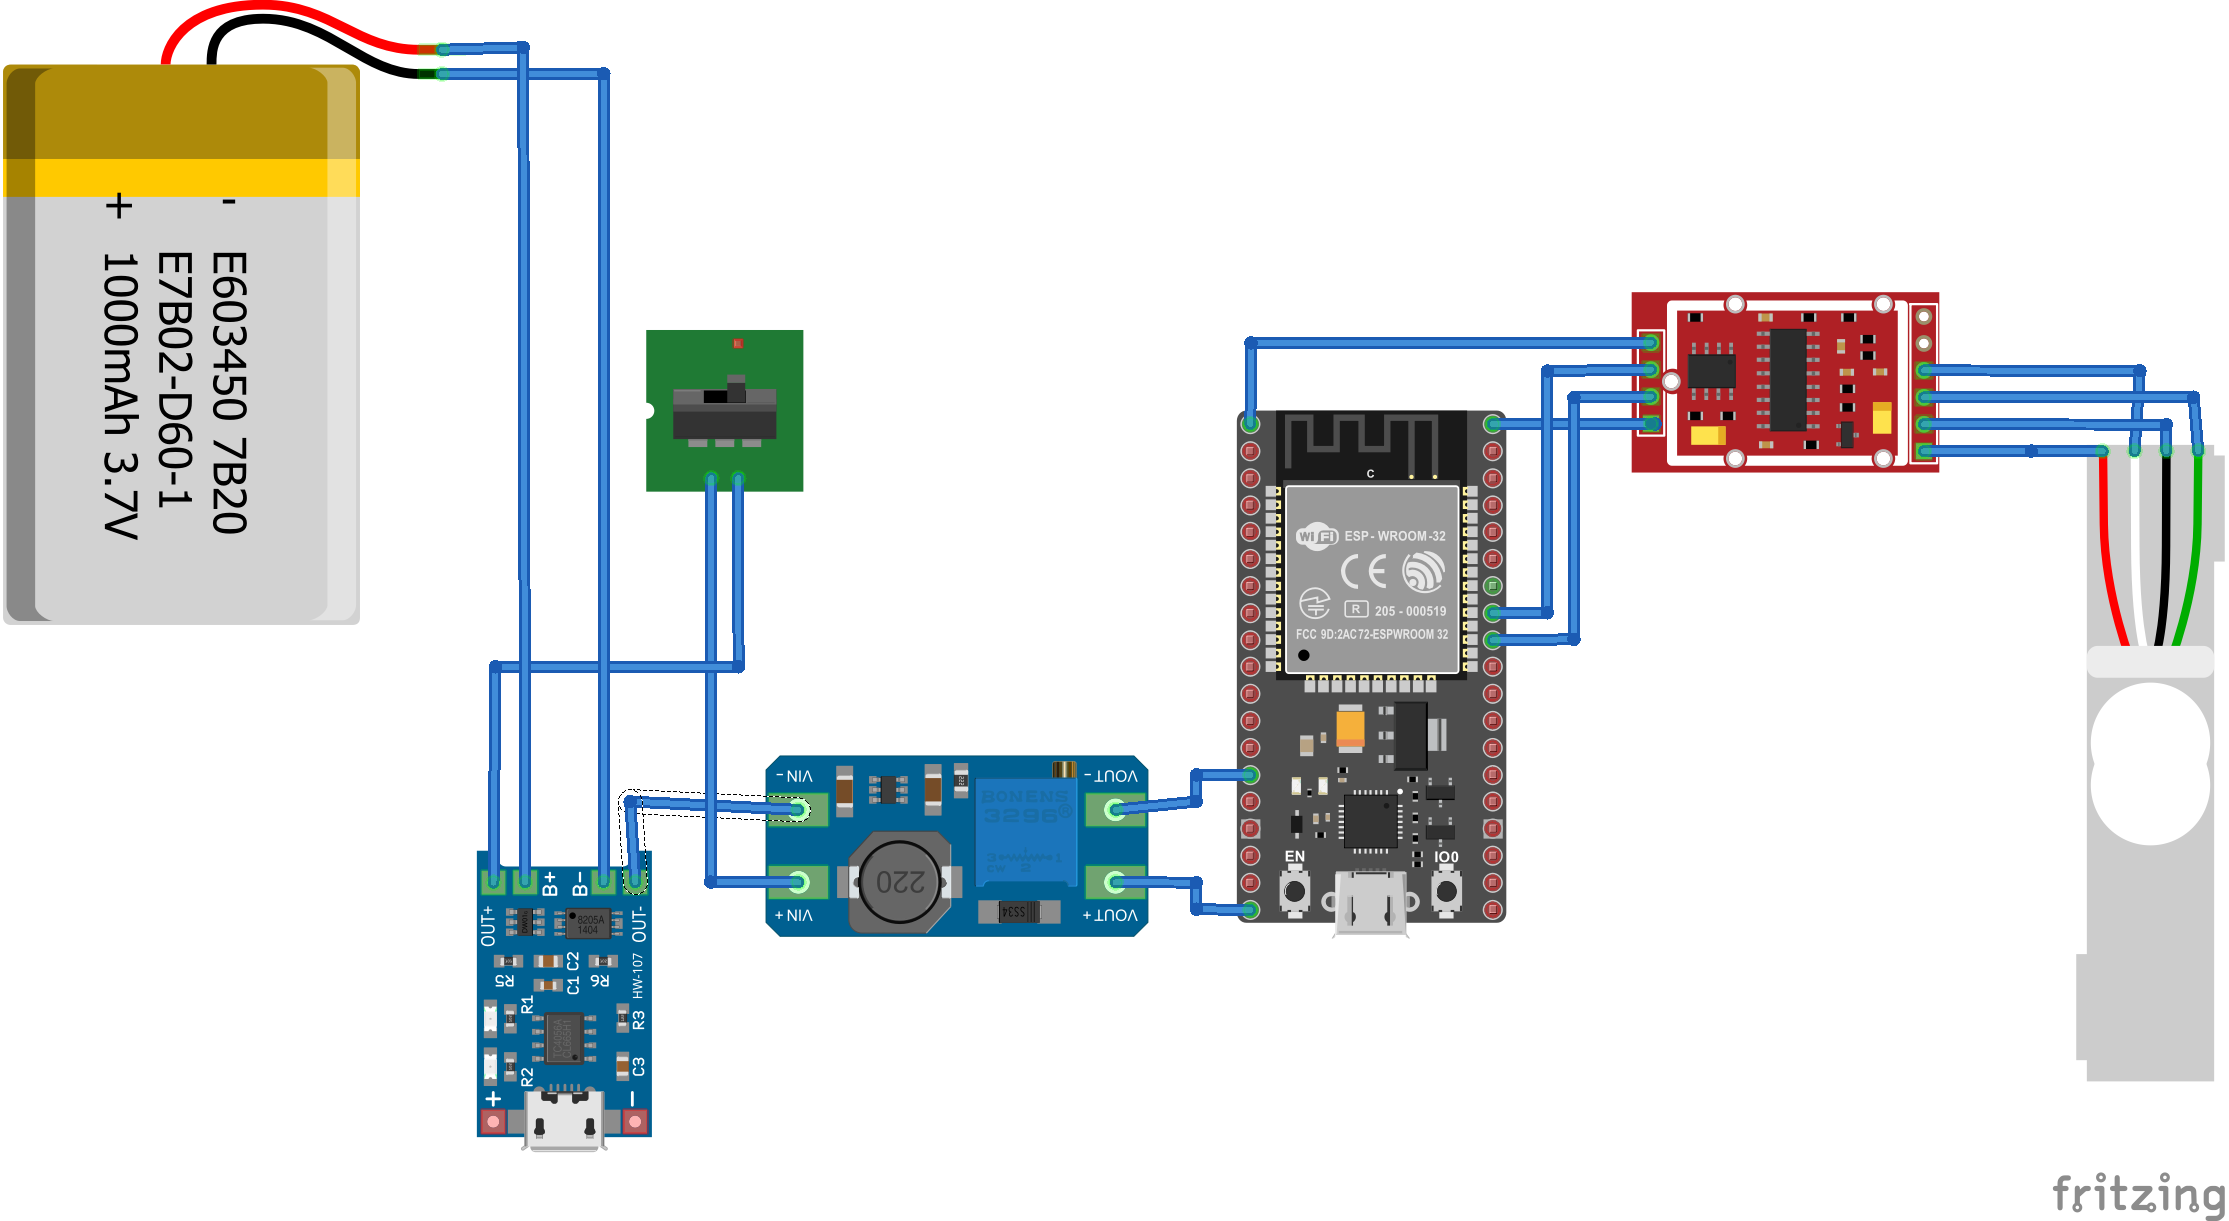
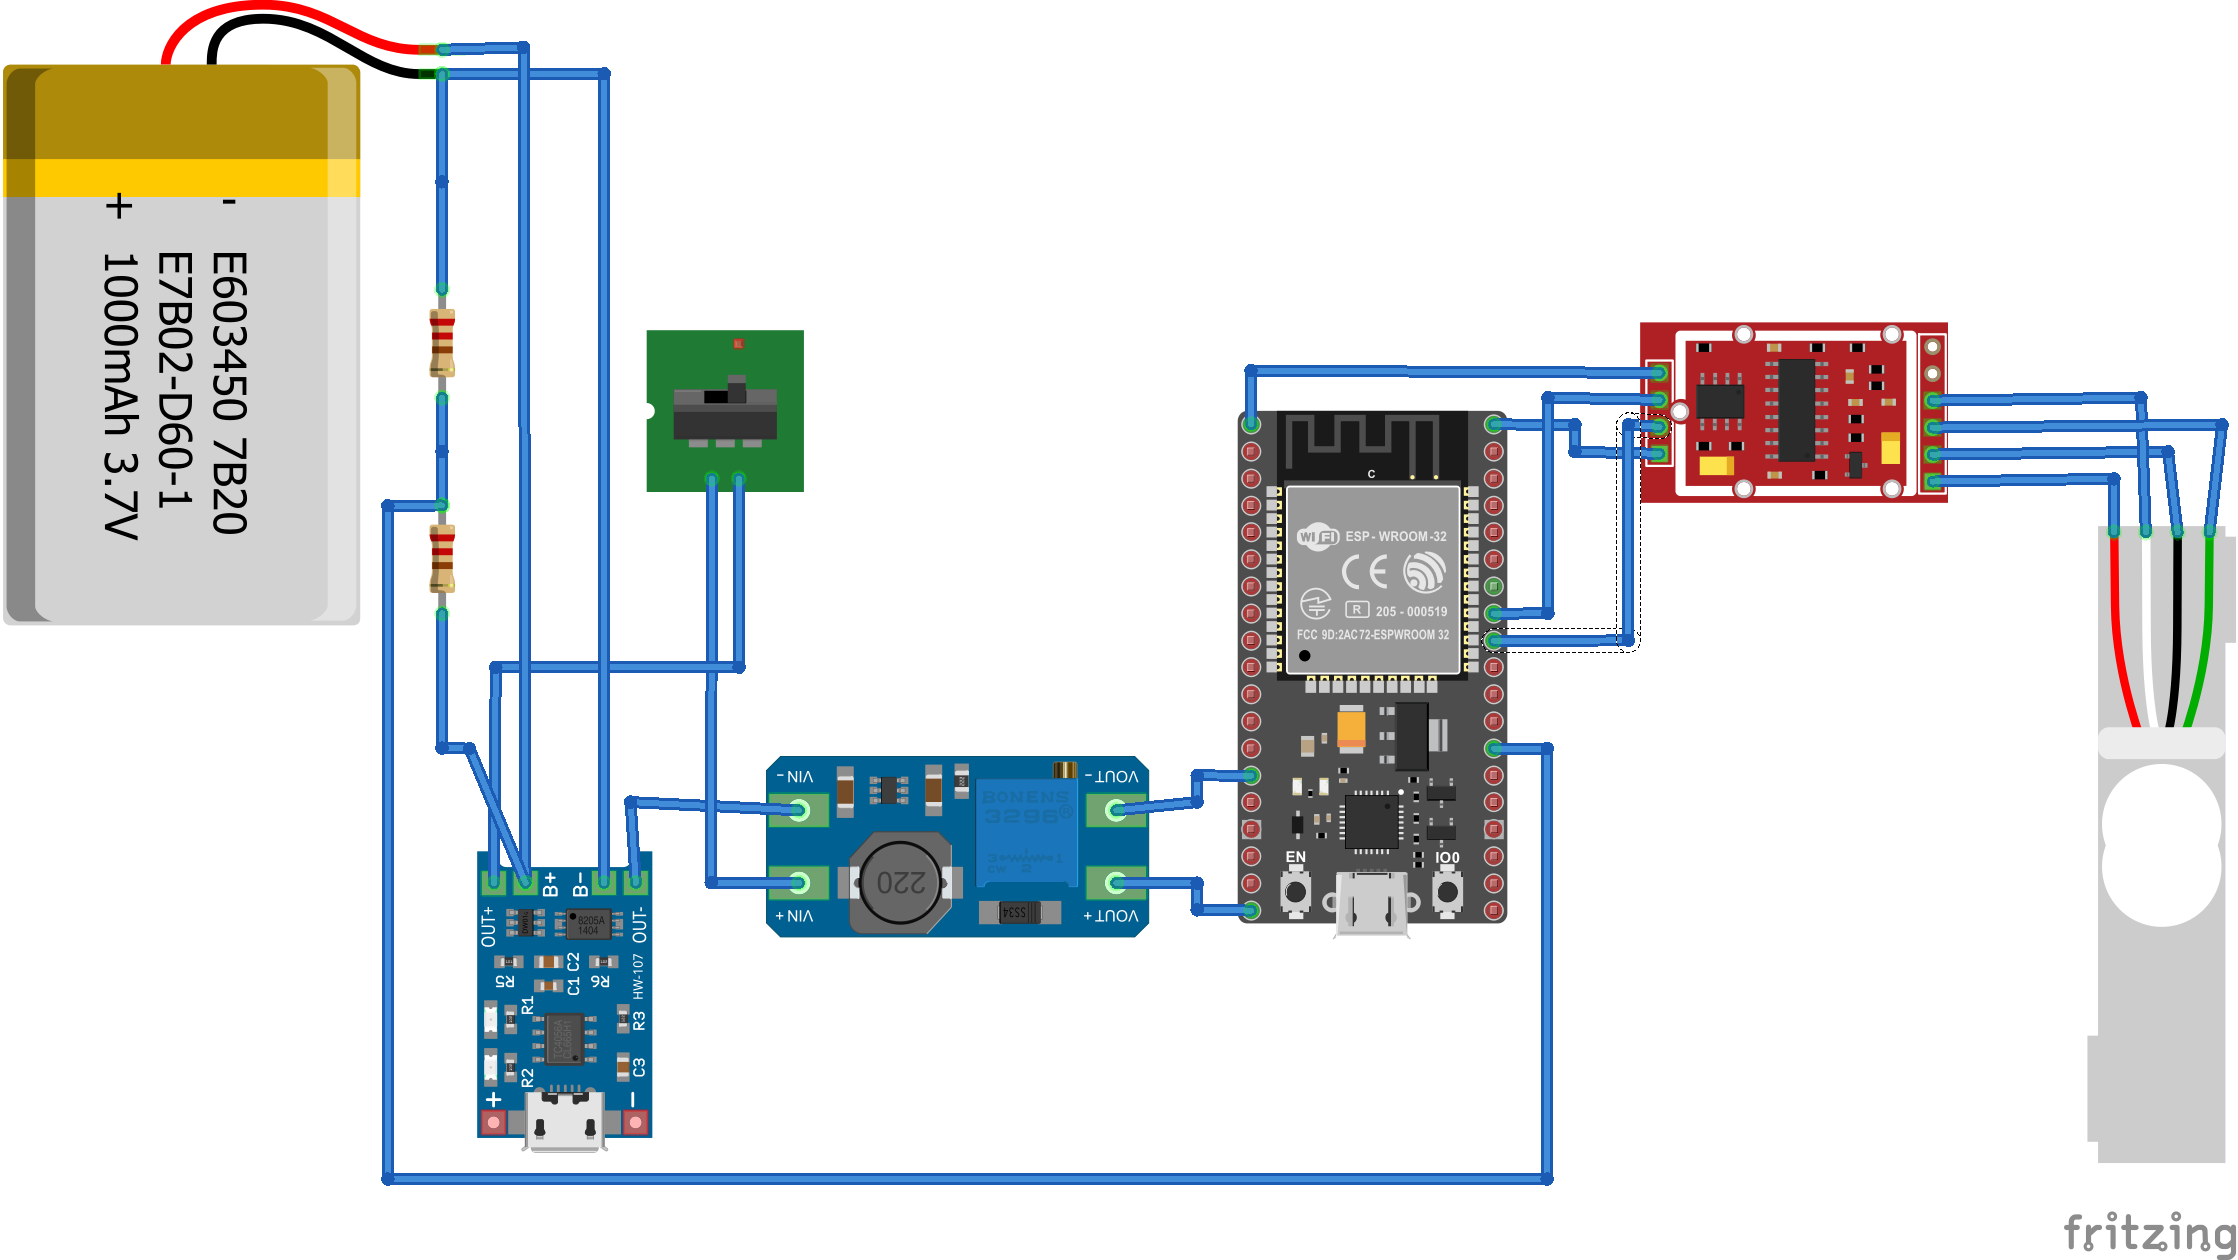
diy add battery monitor

diff --git a/docs/diy.md b/docs/diy.md
@@ -5,6 +5,7 @@ You can assemble the device from pre-built modules. This build would be bulkier.
 ## Schematic
 
 ![Schematic](imgs/diy-modules_bb.png)
+![Schematic](imgs/diy-modules_schem.png)
 
 ## BOM
 
